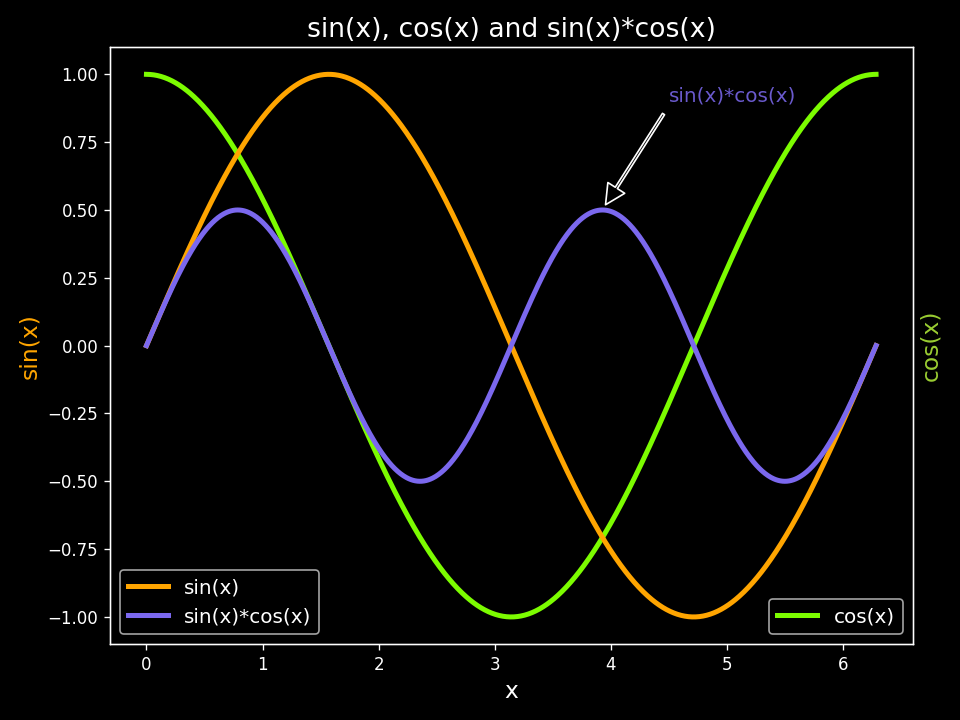
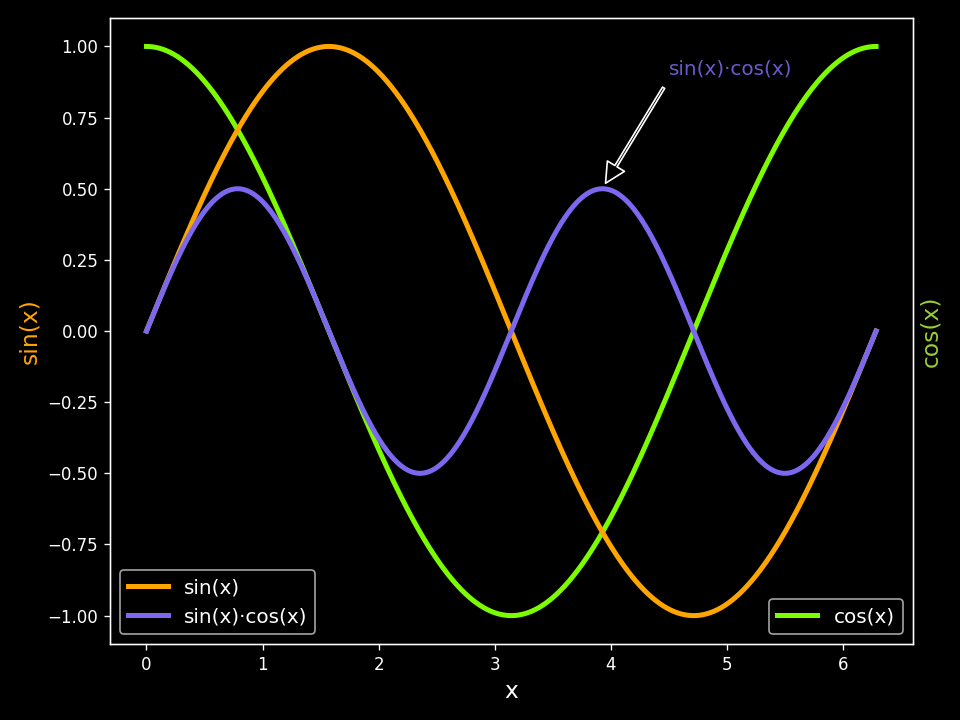
Update of script

diff --git a/explanation.html b/explanation.html
@@ -496,10 +496,7 @@ through these variable names, obviously, lines <code>22-24, 27, 28</code> and <c
 <span class="normal"><a href="#__codelineno-0-66">66</a></span>
 <span class="normal"><a href="#__codelineno-0-67">67</a></span>
 <span class="normal"><a href="#__codelineno-0-68">68</a></span>
-<span class="normal"><a href="#__codelineno-0-69">69</a></span>
-<span class="normal"><a href="#__codelineno-0-70">70</a></span>
-<span class="normal"><a href="#__codelineno-0-71">71</a></span>
-<span class="normal"><a href="#__codelineno-0-72">72</a></span></pre></div></td><td class="code"><div><pre><span></span><code><a id="__codelineno-0-1" name="__codelineno-0-1"></a><span class="c1"># cos_sin_x.py</span>
+<span class="normal"><a href="#__codelineno-0-69">69</a></span></pre></div></td><td class="code"><div><pre><span></span><code><a id="__codelineno-0-1" name="__codelineno-0-1"></a><span class="c1"># cos_sin_x.py</span>
 <a id="__codelineno-0-2" name="__codelineno-0-2"></a>
 <a id="__codelineno-0-3" name="__codelineno-0-3"></a><span class="kn">import</span> <span class="nn">matplotlib.pyplot</span> <span class="k">as</span> <span class="nn">plt</span>
 <a id="__codelineno-0-4" name="__codelineno-0-4"></a><span class="kn">import</span> <span class="nn">numpy</span> <span class="k">as</span> <span class="nn">np</span>
@@ -515,8 +512,8 @@ through these variable names, obviously, lines <code>22-24, 27, 28</code> and <c
 <a id="__codelineno-0-14" name="__codelineno-0-14"></a><span class="n">x</span> <span class="o">=</span> <span class="n">np</span><span class="o">.</span><span class="n">linspace</span><span class="p">(</span><span class="mi">0</span><span class="p">,</span> <span class="mi">2</span><span class="o">*</span><span class="n">np</span><span class="o">.</span><span class="n">pi</span><span class="p">,</span> <span class="mi">360</span><span class="p">,</span> <span class="n">endpoint</span><span class="o">=</span><span class="kc">True</span><span class="p">)</span>
 <a id="__codelineno-0-15" name="__codelineno-0-15"></a><span class="n">cos_x</span><span class="p">,</span> <span class="n">sin_x</span> <span class="o">=</span> <span class="n">np</span><span class="o">.</span><span class="n">cos</span><span class="p">(</span><span class="n">x</span><span class="p">),</span> <span class="n">np</span><span class="o">.</span><span class="n">sin</span><span class="p">(</span><span class="n">x</span><span class="p">)</span>
 <a id="__codelineno-0-16" name="__codelineno-0-16"></a>
-<a id="__codelineno-0-17" name="__codelineno-0-17"></a><span class="n">fig</span><span class="p">,</span> <span class="n">ax_0</span> <span class="o">=</span> <span class="n">plt</span><span class="o">.</span><span class="n">subplots</span><span class="p">(</span><span class="n">figsize</span><span class="o">=</span><span class="p">(</span><span class="mi">8</span><span class="p">,</span> <span class="mi">6</span><span class="p">))</span>
-<a id="__codelineno-0-18" name="__codelineno-0-18"></a><span class="n">ax_0</span><span class="o">.</span><span class="n">set_title</span><span class="p">(</span><span class="s2">&quot;cos(x) and sin(x)&quot;</span><span class="p">,</span> <span class="n">fontsize</span><span class="o">=</span><span class="mi">16</span><span class="p">)</span>
+<a id="__codelineno-0-17" name="__codelineno-0-17"></a><span class="n">fig</span><span class="p">,</span> <span class="n">ax_0</span> <span class="o">=</span> <span class="n">plt</span><span class="o">.</span><span class="n">subplots</span><span class="p">(</span><span class="n">figsize</span><span class="o">=</span><span class="p">(</span><span class="mi">8</span><span class="p">,</span> <span class="mi">6</span><span class="p">),</span> <span class="n">num</span><span class="o">=</span><span class="s2">&quot;sin(x), cos(x), sin(x)·cos(x)&quot;</span><span class="p">)</span>
+<a id="__codelineno-0-18" name="__codelineno-0-18"></a><span class="c1"># ax_0.set_title(&quot;…cos(x) and sin(x)&quot;, fontsize=16)</span>
 <a id="__codelineno-0-19" name="__codelineno-0-19"></a>
 <a id="__codelineno-0-20" name="__codelineno-0-20"></a><span class="n">color_sincos</span> <span class="o">=</span> <span class="s2">&quot;mediumslateblue&quot;</span>
 <a id="__codelineno-0-21" name="__codelineno-0-21"></a><span class="n">color_label_cos</span> <span class="o">=</span> <span class="s2">&quot;lawngreen&quot;</span>
@@ -528,49 +525,46 @@ through these variable names, obviously, lines <code>22-24, 27, 28</code> and <c
 <a id="__codelineno-0-27" name="__codelineno-0-27"></a><span class="hll"><span class="n">cos_x</span><span class="p">,</span> <span class="n">sin_x</span> <span class="o">=</span> <span class="n">np</span><span class="o">.</span><span class="n">cos</span><span class="p">(</span><span class="n">x</span><span class="p">),</span> <span class="n">np</span><span class="o">.</span><span class="n">sin</span><span class="p">(</span><span class="n">x</span><span class="p">)</span>
 </span><a id="__codelineno-0-28" name="__codelineno-0-28"></a><span class="hll"><span class="n">sin_x_cos_x</span> <span class="o">=</span> <span class="n">sin_x</span><span class="o">*</span><span class="n">cos_x</span>
 </span><a id="__codelineno-0-29" name="__codelineno-0-29"></a>
-<a id="__codelineno-0-30" name="__codelineno-0-30"></a><span class="n">fig</span><span class="p">,</span> <span class="n">ax_0</span> <span class="o">=</span> <span class="n">plt</span><span class="o">.</span><span class="n">subplots</span><span class="p">(</span><span class="n">figsize</span><span class="o">=</span><span class="p">(</span><span class="mi">8</span><span class="p">,</span> <span class="mi">6</span><span class="p">))</span>
-<a id="__codelineno-0-31" name="__codelineno-0-31"></a><span class="n">ax_0</span><span class="o">.</span><span class="n">set_title</span><span class="p">(</span><span class="s2">&quot;sin(x), cos(x) and sin(x)*cos(x)&quot;</span><span class="p">,</span> <span class="n">fontsize</span><span class="o">=</span><span class="mi">16</span><span class="p">)</span>
-<a id="__codelineno-0-32" name="__codelineno-0-32"></a>
-<a id="__codelineno-0-33" name="__codelineno-0-33"></a><span class="n">ax_1</span> <span class="o">=</span> <span class="n">ax_0</span><span class="o">.</span><span class="n">twinx</span><span class="p">()</span>
+<a id="__codelineno-0-30" name="__codelineno-0-30"></a><span class="n">ax_1</span> <span class="o">=</span> <span class="n">ax_0</span><span class="o">.</span><span class="n">twinx</span><span class="p">()</span>
+<a id="__codelineno-0-31" name="__codelineno-0-31"></a>
+<a id="__codelineno-0-32" name="__codelineno-0-32"></a><span class="n">ax_0</span><span class="o">.</span><span class="n">plot</span><span class="p">(</span><span class="n">x</span><span class="p">,</span> <span class="n">cos_x</span><span class="p">,</span> <span class="n">lw</span><span class="o">=</span><span class="mi">3</span><span class="p">,</span> <span class="n">color</span><span class="o">=</span><span class="n">color_label_cos</span><span class="p">,</span> <span class="n">label</span><span class="o">=</span><span class="s1">&#39;cos(x)&#39;</span><span class="p">)</span>
+<a id="__codelineno-0-33" name="__codelineno-0-33"></a><span class="n">ax_1</span><span class="o">.</span><span class="n">plot</span><span class="p">(</span><span class="n">x</span><span class="p">,</span> <span class="n">sin_x</span><span class="p">,</span> <span class="n">lw</span><span class="o">=</span><span class="mi">3</span><span class="p">,</span> <span class="n">color</span><span class="o">=</span><span class="n">color_sin</span><span class="p">,</span> <span class="n">label</span><span class="o">=</span><span class="s1">&#39;sin(x)&#39;</span><span class="p">)</span>
 <a id="__codelineno-0-34" name="__codelineno-0-34"></a>
-<a id="__codelineno-0-35" name="__codelineno-0-35"></a><span class="n">ax_0</span><span class="o">.</span><span class="n">plot</span><span class="p">(</span><span class="n">x</span><span class="p">,</span> <span class="n">cos_x</span><span class="p">,</span> <span class="n">lw</span><span class="o">=</span><span class="mi">3</span><span class="p">,</span> <span class="n">color</span><span class="o">=</span><span class="n">color_label_cos</span><span class="p">,</span> <span class="n">label</span><span class="o">=</span><span class="s1">&#39;cos(x)&#39;</span><span class="p">)</span>
-<a id="__codelineno-0-36" name="__codelineno-0-36"></a><span class="n">ax_1</span><span class="o">.</span><span class="n">plot</span><span class="p">(</span><span class="n">x</span><span class="p">,</span> <span class="n">sin_x</span><span class="p">,</span> <span class="n">lw</span><span class="o">=</span><span class="mi">3</span><span class="p">,</span> <span class="n">color</span><span class="o">=</span><span class="n">color_sin</span><span class="p">,</span> <span class="n">label</span><span class="o">=</span><span class="s1">&#39;sin(x)&#39;</span><span class="p">)</span>
-<a id="__codelineno-0-37" name="__codelineno-0-37"></a>
-<a id="__codelineno-0-38" name="__codelineno-0-38"></a>
-<a id="__codelineno-0-39" name="__codelineno-0-39"></a><span class="hll"><span class="n">ax_0</span><span class="o">.</span><span class="n">set_xlabel</span><span class="p">(</span><span class="s2">&quot;x&quot;</span><span class="p">,</span> <span class="n">fontsize</span><span class="o">=</span><span class="mi">14</span><span class="p">)</span>
-</span><a id="__codelineno-0-40" name="__codelineno-0-40"></a><span class="n">ax_0</span><span class="o">.</span><span class="n">set_ylabel</span><span class="p">(</span><span class="s2">&quot;cos(x)&quot;</span><span class="p">,</span> <span class="n">color</span><span class="o">=</span><span class="n">color_cos</span><span class="p">,</span> <span class="n">fontsize</span><span class="o">=</span><span class="mi">14</span><span class="p">)</span>
-<a id="__codelineno-0-41" name="__codelineno-0-41"></a><span class="n">ax_1</span><span class="o">.</span><span class="n">set_ylabel</span><span class="p">(</span><span class="s2">&quot;sin(x)&quot;</span><span class="p">,</span> <span class="n">color</span><span class="o">=</span><span class="n">color_sin</span><span class="p">,</span> <span class="n">fontsize</span><span class="o">=</span><span class="mi">14</span><span class="p">)</span>
-<a id="__codelineno-0-42" name="__codelineno-0-42"></a><span class="n">ax_1</span><span class="o">.</span><span class="n">set_yticks</span><span class="p">([])</span>
-<a id="__codelineno-0-43" name="__codelineno-0-43"></a>
-<a id="__codelineno-0-44" name="__codelineno-0-44"></a><span class="n">ax_1</span><span class="o">.</span><span class="n">plot</span><span class="p">(</span><span class="n">x</span><span class="p">,</span> <span class="n">sin_x_cos_x</span><span class="p">,</span> <span class="n">lw</span><span class="o">=</span><span class="mi">3</span><span class="p">,</span> <span class="n">color</span><span class="o">=</span><span class="n">color_sincos</span><span class="p">,</span> <span class="n">label</span><span class="o">=</span><span class="s1">&#39;sin(x)*cos(x)&#39;</span><span class="p">)</span>
-<a id="__codelineno-0-45" name="__codelineno-0-45"></a>
-<a id="__codelineno-0-46" name="__codelineno-0-46"></a><span class="n">ax_0</span><span class="o">.</span><span class="n">set_xlabel</span><span class="p">(</span><span class="s2">&quot;x&quot;</span><span class="p">,</span> <span class="n">fontsize</span><span class="o">=</span><span class="mi">14</span><span class="p">)</span>
-<a id="__codelineno-0-47" name="__codelineno-0-47"></a><span class="n">ax_0</span><span class="o">.</span><span class="n">set_ylabel</span><span class="p">(</span><span class="s2">&quot;sin(x)&quot;</span><span class="p">,</span> <span class="n">color</span><span class="o">=</span><span class="n">color_sin</span><span class="p">,</span> <span class="n">fontsize</span><span class="o">=</span><span class="mi">14</span><span class="p">)</span>
-<a id="__codelineno-0-48" name="__codelineno-0-48"></a><span class="n">ax_1</span><span class="o">.</span><span class="n">set_ylabel</span><span class="p">(</span><span class="s2">&quot;cos(x)&quot;</span><span class="p">,</span> <span class="n">color</span><span class="o">=</span><span class="n">color_cos</span><span class="p">,</span> <span class="n">fontsize</span><span class="o">=</span><span class="mi">14</span><span class="p">)</span>
-<a id="__codelineno-0-49" name="__codelineno-0-49"></a><span class="n">ax_1</span><span class="o">.</span><span class="n">set_yticks</span><span class="p">([])</span>
-<a id="__codelineno-0-50" name="__codelineno-0-50"></a>
-<a id="__codelineno-0-51" name="__codelineno-0-51"></a><span class="n">max_value</span> <span class="o">=</span> <span class="n">np</span><span class="o">.</span><span class="n">max</span><span class="p">(</span><span class="n">sin_x_cos_x</span><span class="p">)</span>
-<a id="__codelineno-0-52" name="__codelineno-0-52"></a><span class="n">max_idx</span> <span class="o">=</span> <span class="n">np</span><span class="o">.</span><span class="n">argmax</span><span class="p">(</span><span class="n">max_value</span><span class="p">)</span>
-<a id="__codelineno-0-53" name="__codelineno-0-53"></a><span class="n">tolerance</span> <span class="o">=</span> <span class="mf">1e-6</span>
-<a id="__codelineno-0-54" name="__codelineno-0-54"></a><span class="n">max_idc</span> <span class="o">=</span> <span class="n">np</span><span class="o">.</span><span class="n">where</span><span class="p">(</span><span class="n">np</span><span class="o">.</span><span class="n">isclose</span><span class="p">(</span><span class="n">sin_x_cos_x</span><span class="p">,</span> <span class="n">max_value</span><span class="p">,</span> <span class="n">atol</span><span class="o">=</span><span class="n">tolerance</span><span class="p">))[</span><span class="mi">0</span><span class="p">]</span>
-<a id="__codelineno-0-55" name="__codelineno-0-55"></a><span class="n">x_annot</span> <span class="o">=</span> <span class="n">x</span><span class="p">[</span><span class="n">max_idc</span><span class="p">[</span><span class="mi">1</span><span class="p">]]</span>
-<a id="__codelineno-0-56" name="__codelineno-0-56"></a><span class="n">y_annot</span> <span class="o">=</span> <span class="n">sin_x_cos_x</span><span class="p">[</span><span class="n">max_idc</span><span class="p">[</span><span class="mi">1</span><span class="p">]]</span>
-<a id="__codelineno-0-57" name="__codelineno-0-57"></a><span class="n">ax_1</span><span class="o">.</span><span class="n">annotate</span><span class="p">(</span>
-<a id="__codelineno-0-58" name="__codelineno-0-58"></a>    <span class="s1">&#39;sin(x)*cos(x)&#39;</span><span class="p">,</span>
-<a id="__codelineno-0-59" name="__codelineno-0-59"></a>    <span class="n">color</span><span class="o">=</span><span class="n">color_label_sincos</span><span class="p">,</span>
-<a id="__codelineno-0-60" name="__codelineno-0-60"></a>    <span class="n">xy</span><span class="o">=</span><span class="p">(</span><span class="n">x_annot</span><span class="p">,</span> <span class="n">y_annot</span><span class="p">),</span>
-<a id="__codelineno-0-61" name="__codelineno-0-61"></a>    <span class="n">xytext</span><span class="o">=</span><span class="p">(</span><span class="mf">4.5</span><span class="p">,</span> <span class="mf">0.9</span><span class="p">),</span>
-<a id="__codelineno-0-62" name="__codelineno-0-62"></a>    <span class="n">arrowprops</span><span class="o">=</span><span class="nb">dict</span><span class="p">(</span><span class="n">facecolor</span><span class="o">=</span><span class="s1">&#39;black&#39;</span><span class="p">,</span>
-<a id="__codelineno-0-63" name="__codelineno-0-63"></a>                    <span class="n">shrink</span><span class="o">=</span><span class="mf">0.05</span><span class="p">,</span> <span class="n">width</span><span class="o">=</span><span class="mf">1.5</span><span class="p">),</span>
-<a id="__codelineno-0-64" name="__codelineno-0-64"></a>    <span class="n">fontsize</span><span class="o">=</span><span class="mi">12</span>
-<a id="__codelineno-0-65" name="__codelineno-0-65"></a><span class="p">)</span>
+<a id="__codelineno-0-35" name="__codelineno-0-35"></a>
+<a id="__codelineno-0-36" name="__codelineno-0-36"></a><span class="n">ax_0</span><span class="o">.</span><span class="n">set_xlabel</span><span class="p">(</span><span class="s2">&quot;x&quot;</span><span class="p">,</span> <span class="n">fontsize</span><span class="o">=</span><span class="mi">14</span><span class="p">)</span>
+<a id="__codelineno-0-37" name="__codelineno-0-37"></a><span class="n">ax_0</span><span class="o">.</span><span class="n">set_ylabel</span><span class="p">(</span><span class="s2">&quot;cos(x)&quot;</span><span class="p">,</span> <span class="n">color</span><span class="o">=</span><span class="n">color_cos</span><span class="p">,</span> <span class="n">fontsize</span><span class="o">=</span><span class="mi">14</span><span class="p">)</span>
+<a id="__codelineno-0-38" name="__codelineno-0-38"></a><span class="n">ax_1</span><span class="o">.</span><span class="n">set_ylabel</span><span class="p">(</span><span class="s2">&quot;sin(x)&quot;</span><span class="p">,</span> <span class="n">color</span><span class="o">=</span><span class="n">color_sin</span><span class="p">,</span> <span class="n">fontsize</span><span class="o">=</span><span class="mi">14</span><span class="p">)</span>
+<a id="__codelineno-0-39" name="__codelineno-0-39"></a><span class="hll"><span class="n">ax_1</span><span class="o">.</span><span class="n">set_yticks</span><span class="p">([])</span>
+</span><a id="__codelineno-0-40" name="__codelineno-0-40"></a>
+<a id="__codelineno-0-41" name="__codelineno-0-41"></a><span class="n">ax_1</span><span class="o">.</span><span class="n">plot</span><span class="p">(</span><span class="n">x</span><span class="p">,</span> <span class="n">sin_x_cos_x</span><span class="p">,</span> <span class="n">lw</span><span class="o">=</span><span class="mi">3</span><span class="p">,</span> <span class="n">color</span><span class="o">=</span><span class="n">color_sincos</span><span class="p">,</span> <span class="n">label</span><span class="o">=</span><span class="s1">&#39;sin(x)·cos(x)&#39;</span><span class="p">)</span>
+<a id="__codelineno-0-42" name="__codelineno-0-42"></a>
+<a id="__codelineno-0-43" name="__codelineno-0-43"></a><span class="n">ax_0</span><span class="o">.</span><span class="n">set_xlabel</span><span class="p">(</span><span class="s2">&quot;x&quot;</span><span class="p">,</span> <span class="n">fontsize</span><span class="o">=</span><span class="mi">14</span><span class="p">)</span>
+<a id="__codelineno-0-44" name="__codelineno-0-44"></a><span class="n">ax_0</span><span class="o">.</span><span class="n">set_ylabel</span><span class="p">(</span><span class="s2">&quot;sin(x)&quot;</span><span class="p">,</span> <span class="n">color</span><span class="o">=</span><span class="n">color_sin</span><span class="p">,</span> <span class="n">fontsize</span><span class="o">=</span><span class="mi">14</span><span class="p">)</span>
+<a id="__codelineno-0-45" name="__codelineno-0-45"></a><span class="n">ax_1</span><span class="o">.</span><span class="n">set_ylabel</span><span class="p">(</span><span class="s2">&quot;cos(x)&quot;</span><span class="p">,</span> <span class="n">color</span><span class="o">=</span><span class="n">color_cos</span><span class="p">,</span> <span class="n">fontsize</span><span class="o">=</span><span class="mi">14</span><span class="p">)</span>
+<a id="__codelineno-0-46" name="__codelineno-0-46"></a><span class="n">ax_1</span><span class="o">.</span><span class="n">set_yticks</span><span class="p">([])</span>
+<a id="__codelineno-0-47" name="__codelineno-0-47"></a>
+<a id="__codelineno-0-48" name="__codelineno-0-48"></a><span class="n">max_value</span> <span class="o">=</span> <span class="n">np</span><span class="o">.</span><span class="n">max</span><span class="p">(</span><span class="n">sin_x_cos_x</span><span class="p">)</span>
+<a id="__codelineno-0-49" name="__codelineno-0-49"></a><span class="n">max_idx</span> <span class="o">=</span> <span class="n">np</span><span class="o">.</span><span class="n">argmax</span><span class="p">(</span><span class="n">max_value</span><span class="p">)</span>
+<a id="__codelineno-0-50" name="__codelineno-0-50"></a><span class="n">tolerance</span> <span class="o">=</span> <span class="mf">1e-6</span>
+<a id="__codelineno-0-51" name="__codelineno-0-51"></a><span class="n">max_idc</span> <span class="o">=</span> <span class="n">np</span><span class="o">.</span><span class="n">where</span><span class="p">(</span><span class="n">np</span><span class="o">.</span><span class="n">isclose</span><span class="p">(</span><span class="n">sin_x_cos_x</span><span class="p">,</span> <span class="n">max_value</span><span class="p">,</span> <span class="n">atol</span><span class="o">=</span><span class="n">tolerance</span><span class="p">))[</span><span class="mi">0</span><span class="p">]</span>
+<a id="__codelineno-0-52" name="__codelineno-0-52"></a><span class="n">x_annot</span> <span class="o">=</span> <span class="n">x</span><span class="p">[</span><span class="n">max_idc</span><span class="p">[</span><span class="mi">1</span><span class="p">]]</span>
+<a id="__codelineno-0-53" name="__codelineno-0-53"></a><span class="n">y_annot</span> <span class="o">=</span> <span class="n">sin_x_cos_x</span><span class="p">[</span><span class="n">max_idc</span><span class="p">[</span><span class="mi">1</span><span class="p">]]</span>
+<a id="__codelineno-0-54" name="__codelineno-0-54"></a><span class="n">ax_1</span><span class="o">.</span><span class="n">annotate</span><span class="p">(</span>
+<a id="__codelineno-0-55" name="__codelineno-0-55"></a>    <span class="s1">&#39;sin(x)·cos(x)&#39;</span><span class="p">,</span>
+<a id="__codelineno-0-56" name="__codelineno-0-56"></a>    <span class="n">color</span><span class="o">=</span><span class="n">color_label_sincos</span><span class="p">,</span>
+<a id="__codelineno-0-57" name="__codelineno-0-57"></a>    <span class="n">xy</span><span class="o">=</span><span class="p">(</span><span class="n">x_annot</span><span class="p">,</span> <span class="n">y_annot</span><span class="p">),</span>
+<a id="__codelineno-0-58" name="__codelineno-0-58"></a>    <span class="n">xytext</span><span class="o">=</span><span class="p">(</span><span class="mf">4.5</span><span class="p">,</span> <span class="mf">0.9</span><span class="p">),</span>
+<a id="__codelineno-0-59" name="__codelineno-0-59"></a>    <span class="n">arrowprops</span><span class="o">=</span><span class="nb">dict</span><span class="p">(</span><span class="n">facecolor</span><span class="o">=</span><span class="s1">&#39;black&#39;</span><span class="p">,</span>
+<a id="__codelineno-0-60" name="__codelineno-0-60"></a>                    <span class="n">shrink</span><span class="o">=</span><span class="mf">0.05</span><span class="p">,</span> <span class="n">width</span><span class="o">=</span><span class="mf">1.5</span><span class="p">),</span>
+<a id="__codelineno-0-61" name="__codelineno-0-61"></a>    <span class="n">fontsize</span><span class="o">=</span><span class="mi">12</span>
+<a id="__codelineno-0-62" name="__codelineno-0-62"></a><span class="p">)</span>
+<a id="__codelineno-0-63" name="__codelineno-0-63"></a>
+<a id="__codelineno-0-64" name="__codelineno-0-64"></a><span class="n">ax_0</span><span class="o">.</span><span class="n">legend</span><span class="p">(</span><span class="n">loc</span><span class="o">=</span><span class="s1">&#39;lower right&#39;</span><span class="p">,</span> <span class="n">fontsize</span><span class="o">=</span><span class="mi">12</span><span class="p">)</span>
+<a id="__codelineno-0-65" name="__codelineno-0-65"></a><span class="n">ax_1</span><span class="o">.</span><span class="n">legend</span><span class="p">(</span><span class="n">loc</span><span class="o">=</span><span class="s1">&#39;lower left&#39;</span><span class="p">,</span> <span class="n">fontsize</span><span class="o">=</span><span class="mi">12</span><span class="p">)</span>
 <a id="__codelineno-0-66" name="__codelineno-0-66"></a>
-<a id="__codelineno-0-67" name="__codelineno-0-67"></a><span class="n">ax_0</span><span class="o">.</span><span class="n">legend</span><span class="p">(</span><span class="n">loc</span><span class="o">=</span><span class="s1">&#39;lower right&#39;</span><span class="p">,</span> <span class="n">fontsize</span><span class="o">=</span><span class="mi">12</span><span class="p">)</span>
-<a id="__codelineno-0-68" name="__codelineno-0-68"></a><span class="n">ax_1</span><span class="o">.</span><span class="n">legend</span><span class="p">(</span><span class="n">loc</span><span class="o">=</span><span class="s1">&#39;lower left&#39;</span><span class="p">,</span> <span class="n">fontsize</span><span class="o">=</span><span class="mi">12</span><span class="p">)</span>
-<a id="__codelineno-0-69" name="__codelineno-0-69"></a>
-<a id="__codelineno-0-70" name="__codelineno-0-70"></a><span class="n">plt</span><span class="o">.</span><span class="n">tight_layout</span><span class="p">()</span>
-<a id="__codelineno-0-71" name="__codelineno-0-71"></a><span class="n">plt</span><span class="o">.</span><span class="n">savefig</span><span class="p">(</span><span class="s2">&quot;cos_sin_x.png&quot;</span><span class="p">,</span> <span class="n">dpi</span><span class="o">=</span><span class="mi">120</span><span class="p">)</span>
-<a id="__codelineno-0-72" name="__codelineno-0-72"></a><span class="n">plt</span><span class="o">.</span><span class="n">show</span><span class="p">()</span>
+<a id="__codelineno-0-67" name="__codelineno-0-67"></a><span class="n">plt</span><span class="o">.</span><span class="n">tight_layout</span><span class="p">()</span>
+<a id="__codelineno-0-68" name="__codelineno-0-68"></a><span class="n">plt</span><span class="o">.</span><span class="n">savefig</span><span class="p">(</span><span class="s2">&quot;cos_sin_x.png&quot;</span><span class="p">,</span> <span class="n">dpi</span><span class="o">=</span><span class="mi">120</span><span class="p">)</span>
+<a id="__codelineno-0-69" name="__codelineno-0-69"></a><span class="n">plt</span><span class="o">.</span><span class="n">show</span><span class="p">()</span>
 </code></pre></div></td></tr></table></div>
 <p>The script resulted in the following plot:</p>
 <figure>

diff --git a/reference.html b/reference.html
@@ -1014,7 +1014,7 @@ colour provided (<code>search_for</code>).
 <a id="__codelineno-0-206" name="__codelineno-0-206"></a>                <span class="n">args</span> <span class="o">=</span> <span class="nb">dict</span><span class="p">(</span><span class="n">search_for</span><span class="o">=</span><span class="n">search_for</span><span class="p">,</span> <span class="n">kind</span><span class="o">=</span><span class="n">kind</span><span class="p">,</span> <span class="n">rgb</span><span class="o">=</span><span class="n">rgb</span><span class="p">,)</span>
 <a id="__codelineno-0-207" name="__codelineno-0-207"></a>                <span class="n">actions</span> <span class="o">=</span> <span class="p">{</span><span class="s2">&quot;n&quot;</span><span class="p">:</span> <span class="k">lambda</span><span class="p">:</span> <span class="n">_again</span><span class="p">(</span><span class="n">args</span><span class="p">,</span> <span class="s2">&quot;No colours copied. &quot;</span><span class="p">),</span>
 <a id="__codelineno-0-208" name="__codelineno-0-208"></a>                           <span class="s2">&quot;y&quot;</span><span class="p">:</span> <span class="k">lambda</span><span class="p">:</span> <span class="kc">None</span><span class="p">,</span> <span class="p">}</span>
-<a id="__codelineno-0-209" name="__codelineno-0-209"></a>                <span class="n">actions</span><span class="o">.</span><span class="n">get</span><span class="p">(</span><span class="n">ans</span><span class="o">.</span><span class="n">lower</span><span class="p">(),</span> <span class="k">lambda</span><span class="p">:</span> <span class="kc">None</span><span class="p">)()</span>
+<a id="__codelineno-0-209" name="__codelineno-0-209"></a>                <span class="n">actions</span><span class="o">.</span><span class="n">get</span><span class="p">(</span><span class="n">ans</span><span class="o">.</span><span class="n">lower</span><span class="p">(),</span> <span class="n">actions</span><span class="p">[</span><span class="s1">&#39;n&#39;</span><span class="p">])()</span>
 <a id="__codelineno-0-210" name="__codelineno-0-210"></a>
 <a id="__codelineno-0-211" name="__codelineno-0-211"></a>            <span class="k">if</span> <span class="ow">not</span> <span class="n">rgb</span><span class="p">:</span>
 <a id="__codelineno-0-212" name="__codelineno-0-212"></a>                <span class="n">pyperclip</span><span class="o">.</span><span class="n">copy</span><span class="p">(</span><span class="s2">&quot;, &quot;</span><span class="o">.</span><span class="n">join</span><span class="p">(</span><span class="n">chosen_color</span><span class="p">))</span>

diff --git a/assets/cos_sin_x.py b/assets/cos_sin_x.py
@@ -14,8 +14,8 @@ color_label_sin = "orangered"
 x = np.linspace(0, 2*np.pi, 360, endpoint=True)
 cos_x, sin_x = np.cos(x), np.sin(x)
 
-fig, ax_0 = plt.subplots(figsize=(8, 6))
-ax_0.set_title("cos(x) and sin(x)", fontsize=16)
+fig, ax_0 = plt.subplots(figsize=(8, 6), num="sin(x), cos(x), sin(x)·cos(x)")
+# ax_0.set_title("…cos(x) and sin(x)", fontsize=16)
 
 color_sincos = "mediumslateblue"
 color_label_cos = "lawngreen"
@@ -26,9 +26,6 @@ nr_pts = 1000
 x = np.linspace(0, 2*np.pi, nr_pts, endpoint=True)
 cos_x, sin_x = np.cos(x), np.sin(x)
 sin_x_cos_x = sin_x*cos_x
-
-fig, ax_0 = plt.subplots(figsize=(8, 6))
-ax_0.set_title("sin(x), cos(x) and sin(x)*cos(x)", fontsize=16)
 
 ax_1 = ax_0.twinx()
 
@@ -41,7 +38,7 @@ ax_0.set_ylabel("cos(x)", color=color_cos, fontsize=14)
 ax_1.set_ylabel("sin(x)", color=color_sin, fontsize=14)
 ax_1.set_yticks([])
 
-ax_1.plot(x, sin_x_cos_x, lw=3, color=color_sincos, label='sin(x)*cos(x)')
+ax_1.plot(x, sin_x_cos_x, lw=3, color=color_sincos, label='sin(x)·cos(x)')
 
 ax_0.set_xlabel("x", fontsize=14)
 ax_0.set_ylabel("sin(x)", color=color_sin, fontsize=14)
@@ -55,7 +52,7 @@ max_idc = np.where(np.isclose(sin_x_cos_x, max_value, atol=tolerance))[0]
 x_annot = x[max_idc[1]]
 y_annot = sin_x_cos_x[max_idc[1]]
 ax_1.annotate(
-    'sin(x)*cos(x)',
+    'sin(x)·cos(x)',
     color=color_label_sincos,
     xy=(x_annot, y_annot),
     xytext=(4.5, 0.9),
